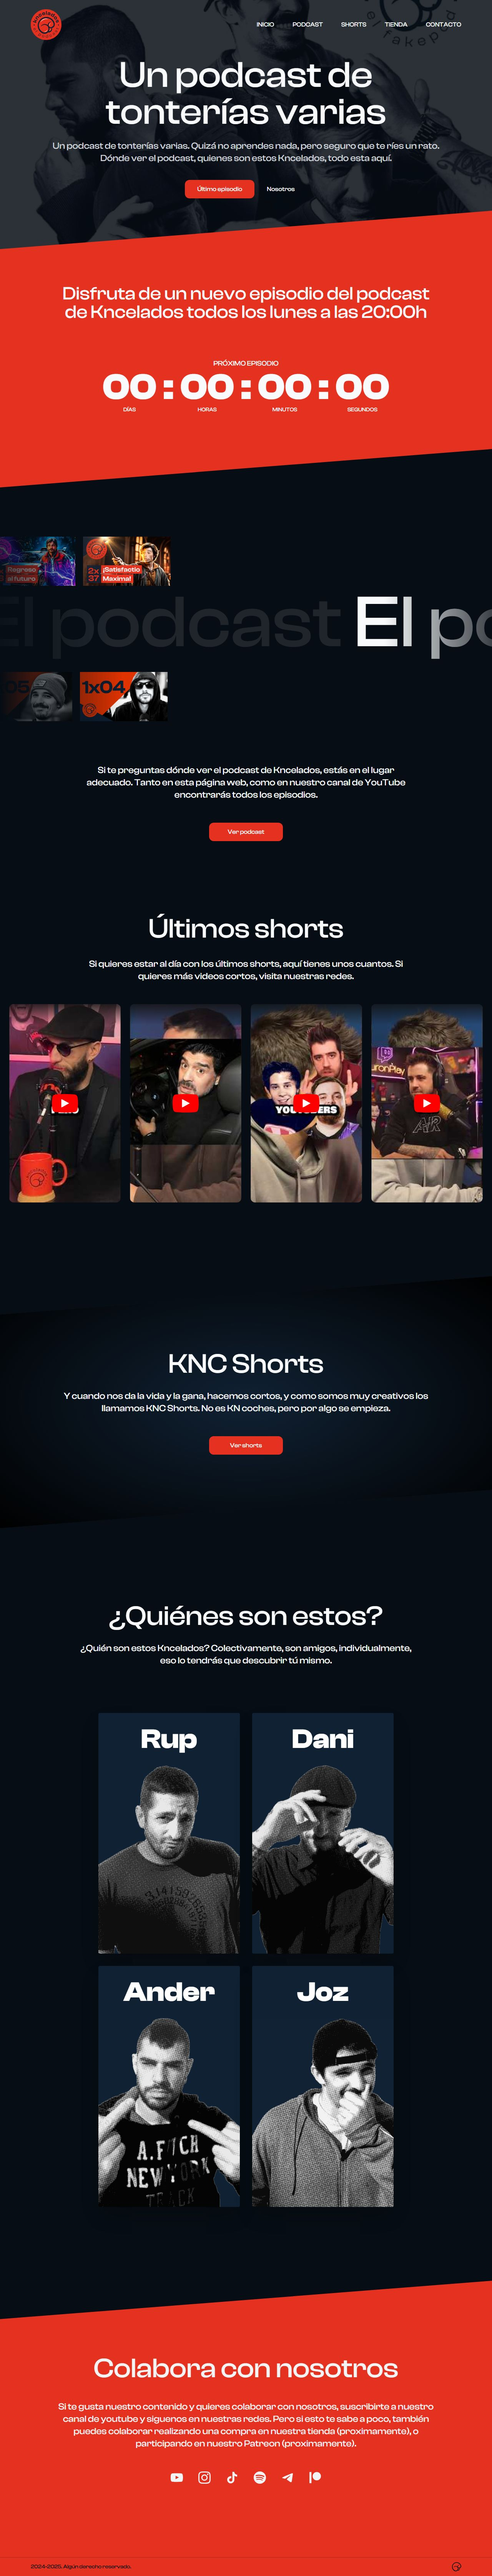
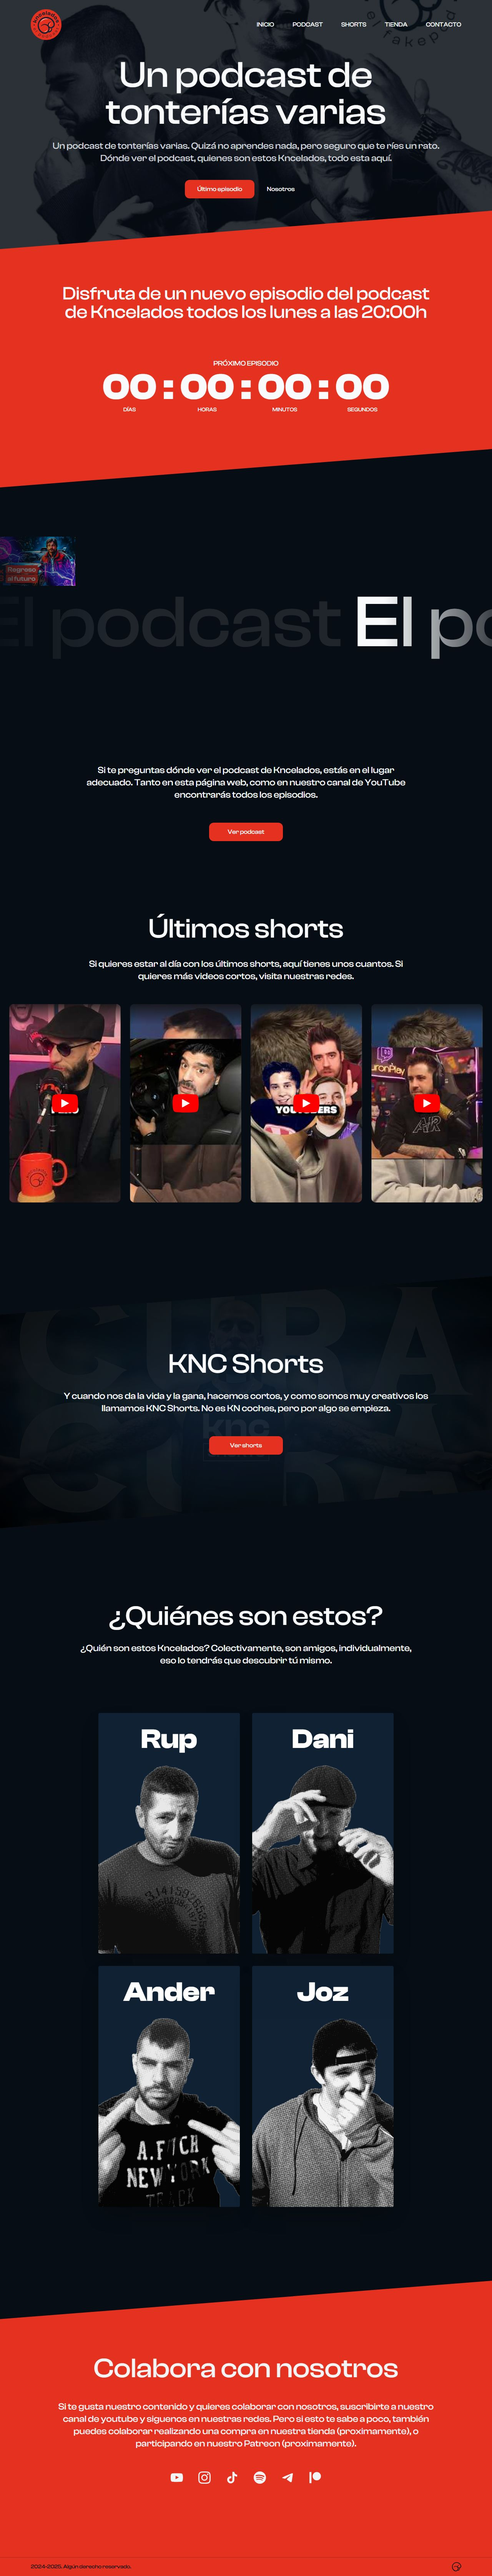
add screenshots

Changed region(s): [[0.0312, 0.1871, 0.3438, 0.2807]]

diff --git a/scrape/projects.ts b/scrape/projects.ts
@@ -1,0 +1,96 @@
+export const projects = [
+  {
+    url: "https://www.kncelados.com/",
+    title: "Kncelados Podcast",
+  },
+
+  {
+    url: "https://www.calandraautomobili.com/",
+    title: "Calandra Automovili",
+  },
+
+  {
+    url: "https://www.ulavet.com/",
+    title: "Ulavet Veterinaria",
+  },
+
+  {
+    url: "https://www.jardinerialamediterrania.com/",
+    title: "Jardinería La Medeterránia",
+  },
+
+  {
+    url: "https://testing.gaplogic.com/",
+    title: "Gaplogic",
+  },
+
+  {
+    url: "https://www.gaudiobarcelona.com/",
+    title: "Gaudio Art",
+  },
+
+  {
+    url: "https://www.stopperinternational.com/",
+    title: "Stopper Internacional",
+  },
+
+  {
+    url: "https://www.tattookiller.es/",
+    title: "Tattoo Killer",
+  },
+
+  {
+    url: "https://menuplis.netlify.app",
+    title: "Menuplis",
+  },
+
+  {
+    url: "https://www.sitgesgi.com",
+    title: "Sitgesgi",
+  },
+
+  {
+    url: "https://facturasgratis.vercel.app",
+    title: "Facturas Gratis",
+  },
+
+  {
+    url: "https://timer-app-seven.vercel.app",
+    title: "Timer App",
+  },
+
+  {
+    url: "https://venarima.vercel.app",
+    title: "Venarima Game",
+  },
+
+  {
+    url: "https://www.grandefronteo.com",
+    title: "Grande Fronteo",
+    icon: "https://www.grandefronteo.com/favicon.svg",
+  },
+
+  {
+    url: "https://www.simplementewear.com",
+    title: "Simplemente Wear",
+    icon: "https://www.simplementewear.com/favicon.svg",
+  },
+
+  {
+    url: "https://bleed-two.vercel.app",
+    title: "Bleed Two App",
+  },
+
+  /*
+  "https://gimg-verdulife.vercel.app",
+  "https://www.simplementewear.com",
+  "https://onedaydesign.vercel.app",
+  "https://bleed-two.vercel.app",
+  "https://wwwrap.dev",
+  "https://www.sglvilanova.com",
+  "https://www.seastone.es",
+  "https://www.mdisitges.com",
+  "https://www.supercleanvilanova.com",
+  "https://www.sitgesgi.com",
+  // */
+]

diff --git a/scrape/getScreenshots.ts b/scrape/getScreenshots.ts
@@ -1,0 +1,15 @@
+import { chromium } from "playwright";
+import { projects } from "./projects.ts";
+
+async function getScreenshots({ url, title }: any) {
+  const id = title.replaceAll(" ", "-").toLowerCase();
+  const browser = await chromium.launch();
+  const page = await browser.newPage();
+
+  await page.goto(url);
+  await page.waitForLoadState('domcontentloaded');
+  await page.screenshot({ path: `public/screenshots/${id}.jpg`, fullPage: true });
+  await browser.close();
+}
+
+projects.forEach(async (project) => getScreenshots(project));
